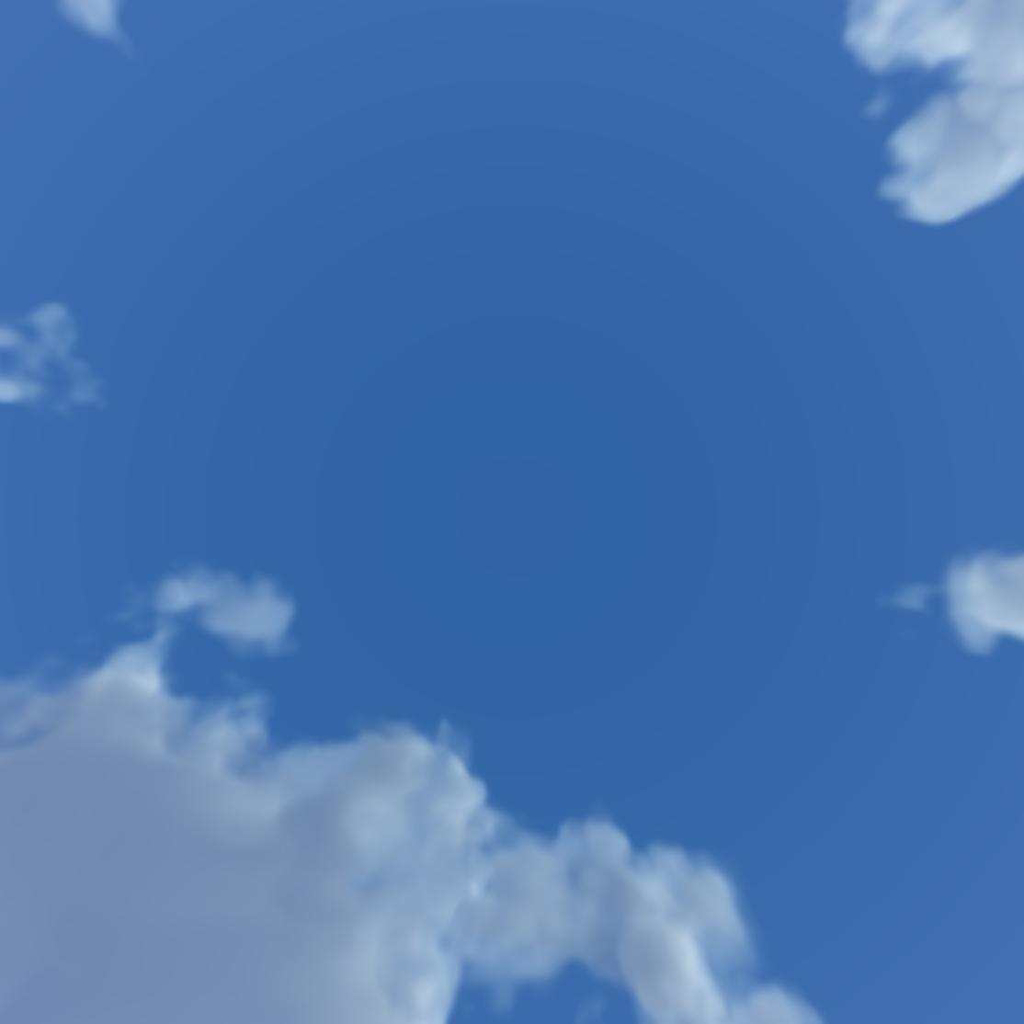
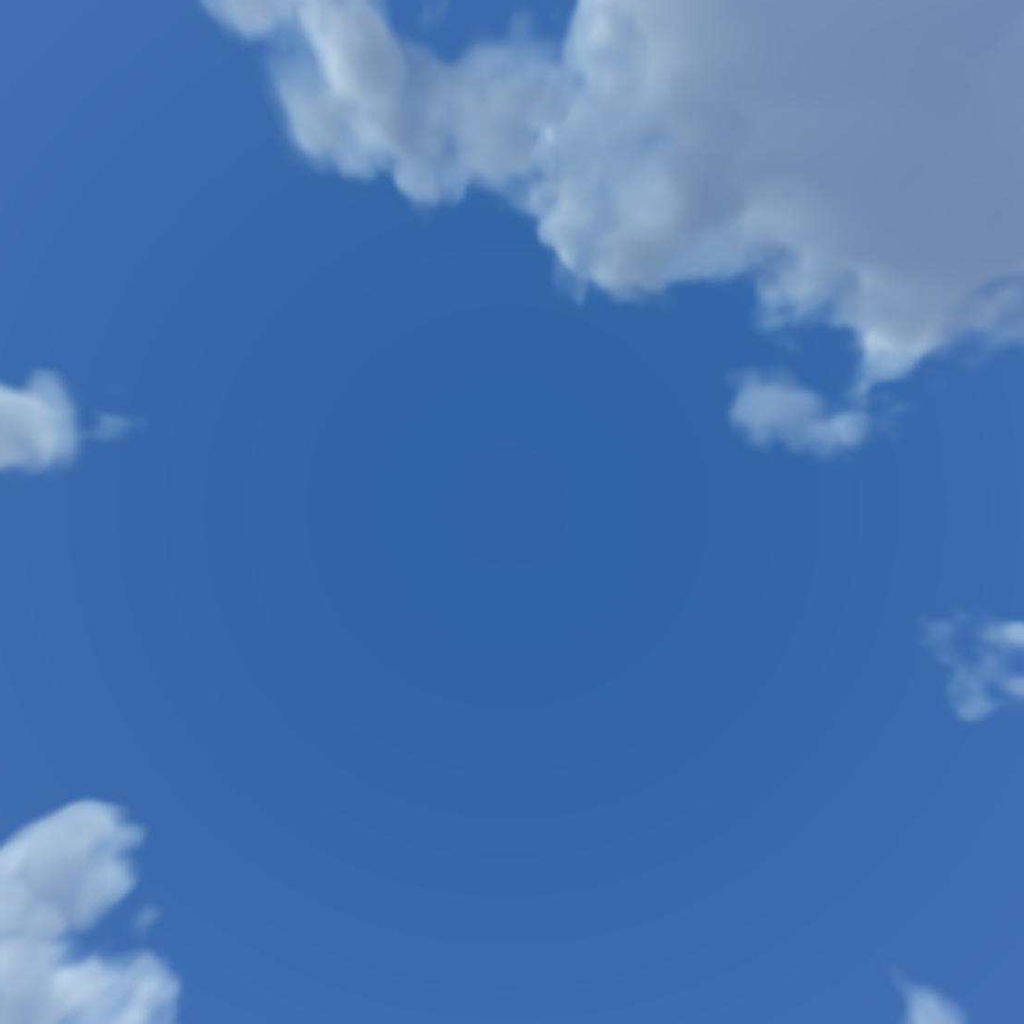
skybox alignment

diff --git a/js/main.js b/js/main.js
@@ -24,12 +24,12 @@ async function main() {
     const scene = new Scene();
 
     scene.background = new CubeTextureLoader().setPath('./resources/images/').load([
-        'sh_rt.png',
-        'sh_lf.png',
+        'sh_bk.png',
+        'sh_ft.png',
         'sh_up.png',
         'sh_dn.png',
-        'sh_ft.png',
-        'sh_bk.png'
+        'sh_lf.png',
+        'sh_rt.png'
     ])
 
 
